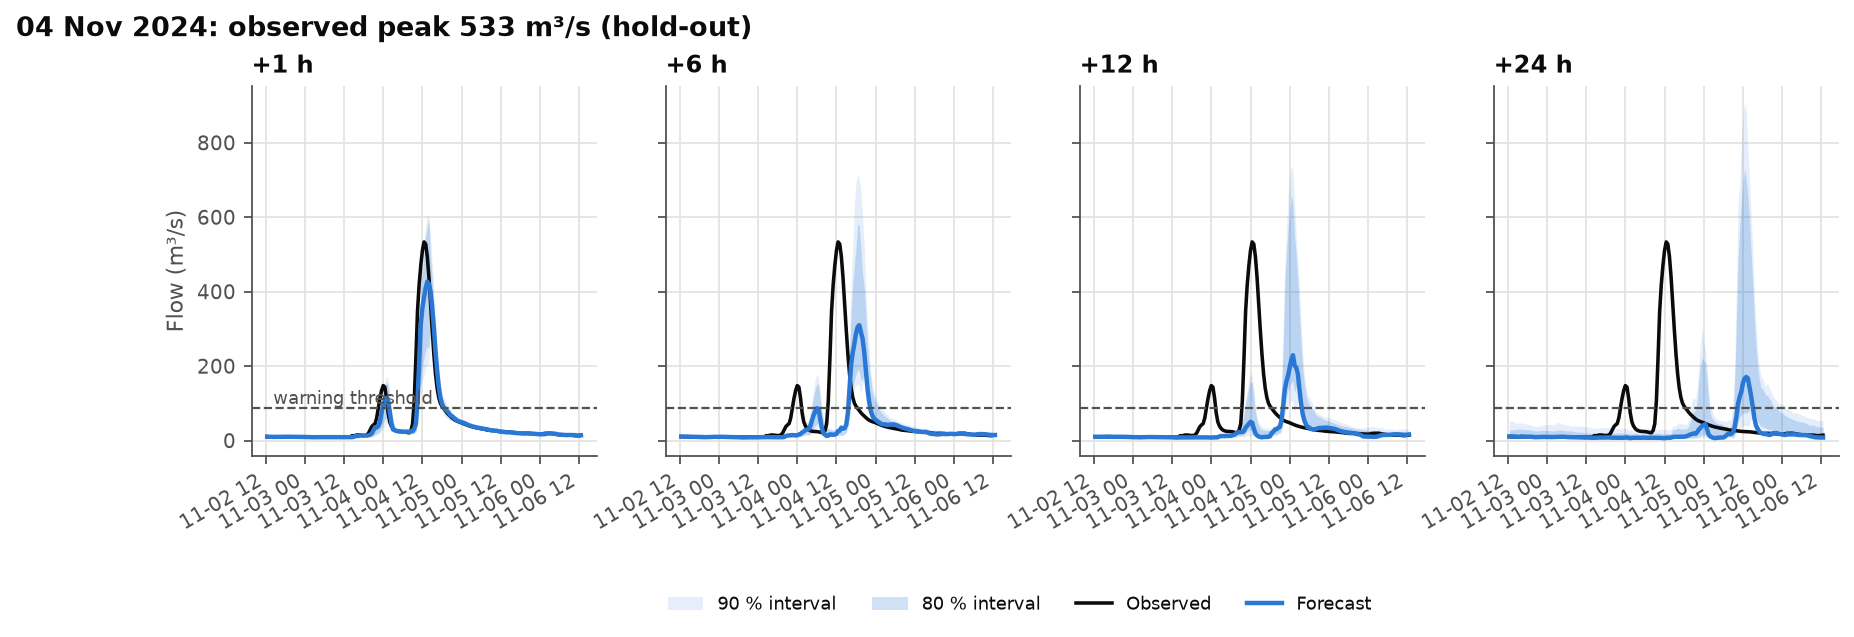
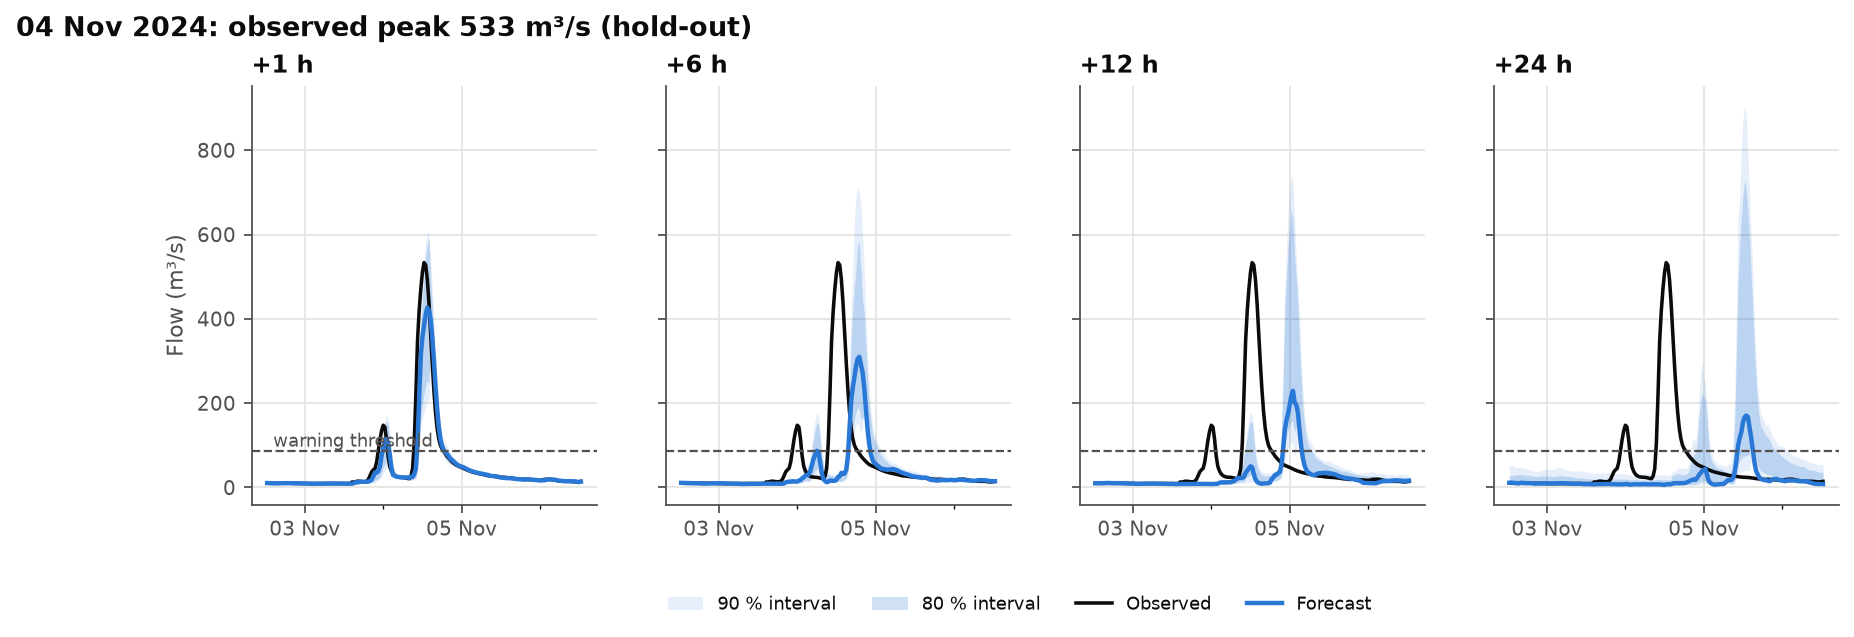
Arregla les figures, imatge de previsualització i enllaç a la pàgina en directe

diff --git a/src/llobregat/report.py b/src/llobregat/report.py
@@ -285,6 +285,8 @@ def fig_hydrograph(
     horizons=(1, 6, 12, 24),
 ) -> None:
     plt = _plt()
+    import matplotlib.dates as mdates
+
     obs = observed_series(pred)
     a, b = peak_time - pd.Timedelta(days=2), peak_time + pd.Timedelta(days=2)
     hs = [h for h in horizons if h in set(pred["horizon_h"])]
@@ -321,7 +323,11 @@ def fig_hydrograph(
         ax.plot(t, get["central"], color=COLORS["central"], lw=2, label="Forecast")
         ax.axhline(threshold, color=INK2, lw=1, ls="--")
         ax.set_title(f"+{h:g} h", loc="left")
-        ax.tick_params(axis="x", rotation=30)
+        # A label every other day ("13 Sep") and a minor tick every day: readable in 4 panels
+        ax.xaxis.set_major_locator(mdates.DayLocator(interval=2, tz="UTC"))
+        ax.xaxis.set_major_formatter(mdates.DateFormatter("%d %b", tz="UTC"))
+        ax.xaxis.set_minor_locator(mdates.DayLocator(tz="UTC"))
+        ax.tick_params(axis="x", rotation=0, labelsize=8)
         _style(ax)
     axes[0].set_ylabel("Flow (m³/s)")
     axes[0].text(t[0], threshold, " warning threshold", va="bottom", fontsize=8, color=INK2)
@@ -336,7 +342,6 @@ def fig_hydrograph(
         bbox_to_anchor=(0.5, -0.12),
     )
     fig.suptitle(title, x=0.01, y=1.01, ha="left", fontweight="bold")
-    fig.autofmt_xdate()
     fig.savefig(path)
     plt.close(fig)
 
@@ -454,7 +459,7 @@ def fig_lead(lt: pd.DataFrame, path: Path) -> None:
     ax.set_xlabel("Warning issued at least x hours before the threshold crossing")
     ax.set_ylabel("Share of episodes")
     ax.set_ylim(0, 1.02)
-    ax.legend(frameon=False, fontsize=8, loc="lower left")
+    ax.legend(frameon=False, fontsize=8, loc="upper right")
     _style(ax)
     fig.savefig(path)
     plt.close(fig)

diff --git a/README.md b/README.md
@@ -15,7 +15,8 @@ Barcelona, 2026). Les diferències i millores respecte al TFG s'expliquen a
 > donen l'[Agència Catalana de l'Aigua](https://aca.gencat.cat) i
 > [Protecció Civil de Catalunya](https://interior.gencat.cat/ca/arees_dactuacio/proteccio_civil/).
 
-**Predicció en temps real:** [llobregat-operatiu](https://github.com/joangordo/llobregat-operatiu)
+**Predicció en temps real:** [joangordo.github.io/llobregat-flood-forecast-live](https://joangordo.github.io/llobregat-flood-forecast-live/)
+(codi: [llobregat-flood-forecast-live](https://github.com/joangordo/llobregat-flood-forecast-live))
 (GitHub Actions + GitHub Pages, cada 30 minuts).
 
 El codi, els comentaris i els noms de les sortides són en anglès, igual que a la

diff --git a/docs/reproduir.md b/docs/reproduir.md
@@ -47,5 +47,5 @@ uv run python scripts/migrate_outputs_to_english.py --apply
 menys l'últim, que es reserva per calibrar els intervals, i desa a `operational/` els models
 (LightGBM en text i Ridge en joblib), el `manifest.json` (variables, ajustos del CQR, llindar,
 anys i versions de les llibreries) i les importàncies. L'aplicatiu
-[llobregat-operatiu](https://github.com/joangordo/llobregat-operatiu) carrega aquests fitxers
+[llobregat-flood-forecast-live](https://github.com/joangordo/llobregat-flood-forecast-live) carrega aquests fitxers
 amb `llobregat.operational.OperationalModel`.
